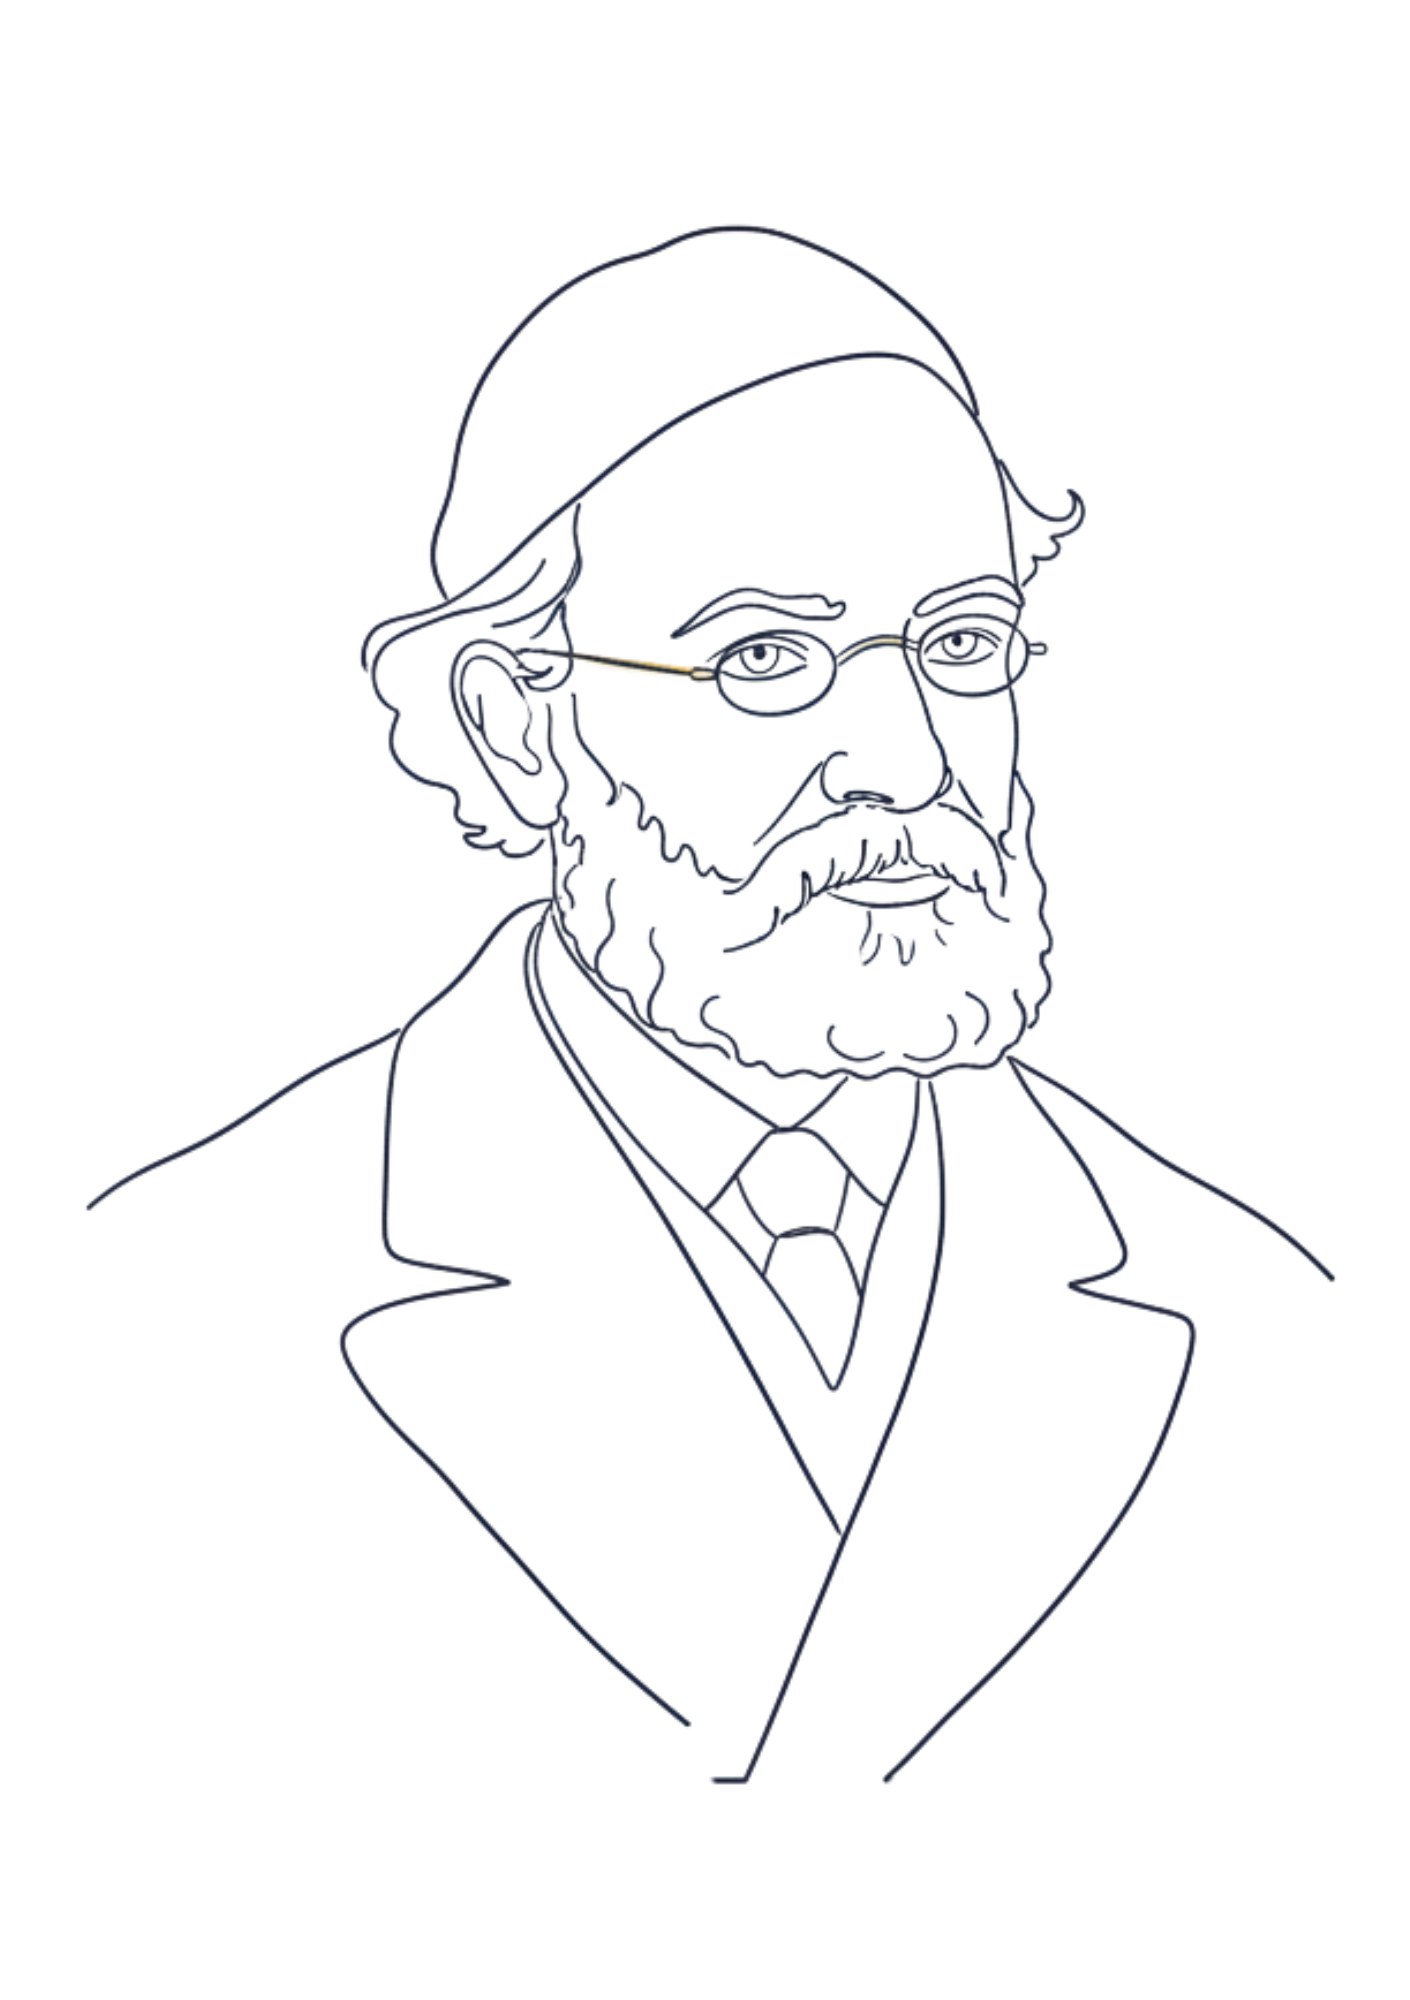
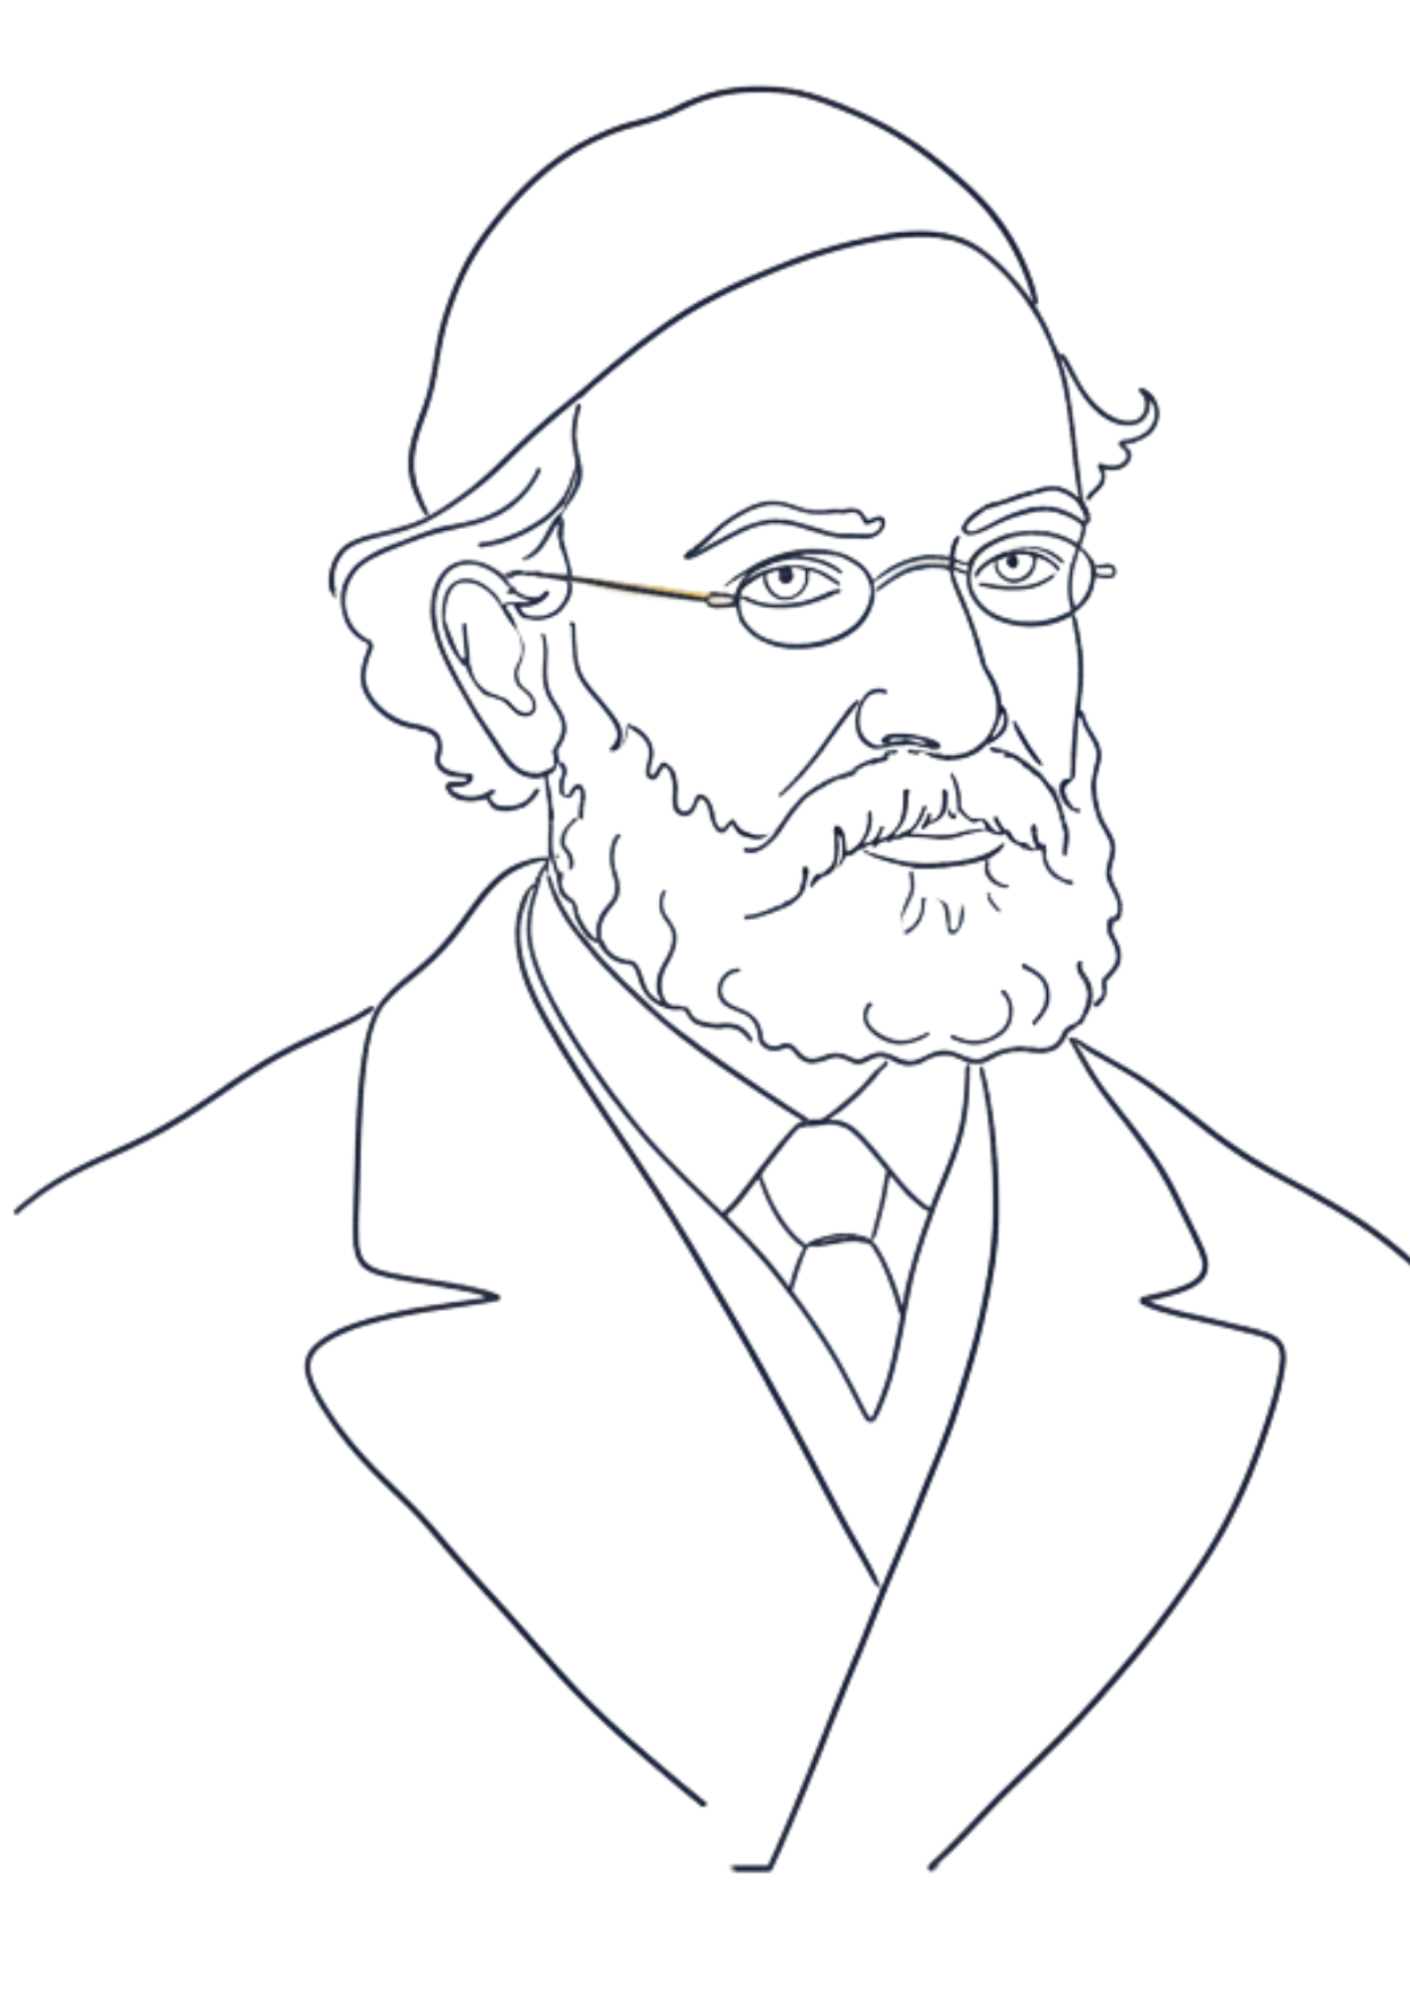
Replace portraits with transparent versions; sit on cream bg with subtle gold outline

diff --git a/styles.css b/styles.css
@@ -320,17 +320,18 @@ a:hover { text-decoration: underline; }
     text-align: center;
 }
 .portrait-frame {
-    background: #ffffff;
+    /* Portraits are transparent PNGs — sit on the site's cream so the navy linework reads beautifully */
+    background: var(--bg);
     border-radius: 18px;
     overflow: hidden;
     aspect-ratio: 141 / 200; /* matches the source artwork exactly */
     width: 100%;
-    max-width: 360px;
+    max-width: 320px;
     margin: 0 auto 22px;
     display: flex;
     align-items: center;
     justify-content: center;
-    border: 1px solid var(--line);
+    border: 1px solid rgba(184, 146, 74, 0.25); /* subtle warm-gold outline */
     box-shadow: 0 6px 24px rgba(20, 30, 60, 0.06);
     transition: transform 0.25s, box-shadow 0.25s;
 }
